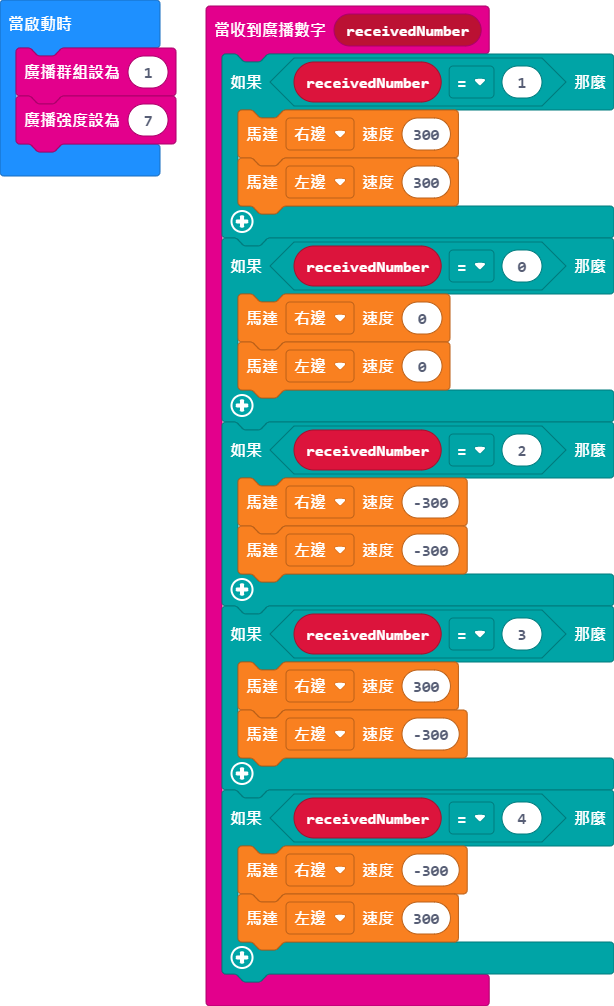
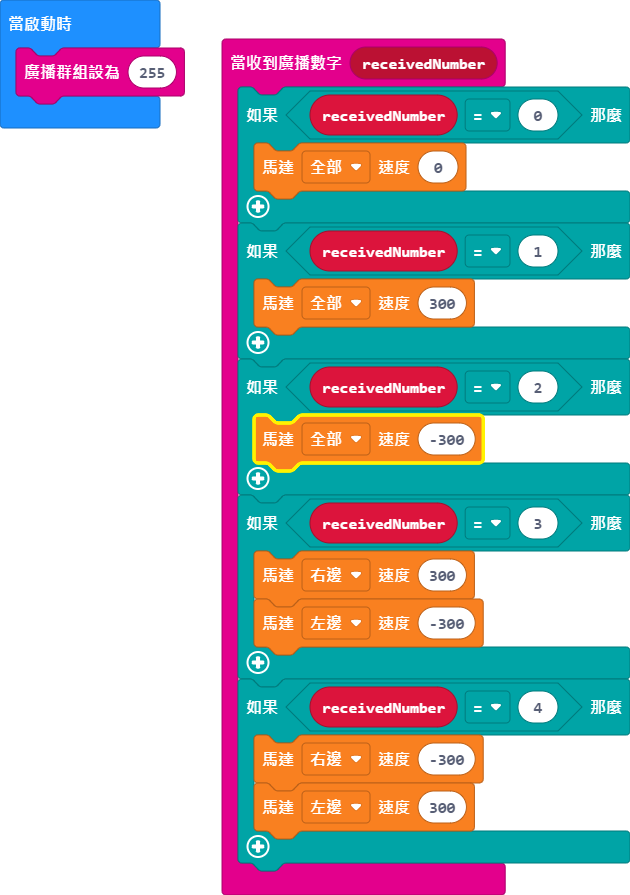
更新 main.blocks, main.ts

diff --git a/main.ts b/main.ts
@@ -1,15 +1,12 @@
 radio.onReceivedNumber(function (receivedNumber) {
-    if (receivedNumber == 1) {
-        BitRacer.motorRun(BitRacer.Motors.M_R, 300)
-        BitRacer.motorRun(BitRacer.Motors.M_L, 300)
-    }
     if (receivedNumber == 0) {
-        BitRacer.motorRun(BitRacer.Motors.M_R, 0)
-        BitRacer.motorRun(BitRacer.Motors.M_L, 0)
+        BitRacer.motorRun(BitRacer.Motors.All, 0)
+    }
+    if (receivedNumber == 1) {
+        BitRacer.motorRun(BitRacer.Motors.All, 300)
     }
     if (receivedNumber == 2) {
-        BitRacer.motorRun(BitRacer.Motors.M_R, -300)
-        BitRacer.motorRun(BitRacer.Motors.M_L, -300)
+        BitRacer.motorRun(BitRacer.Motors.All, -300)
     }
     if (receivedNumber == 3) {
         BitRacer.motorRun(BitRacer.Motors.M_R, 300)
@@ -20,5 +17,4 @@ radio.onReceivedNumber(function (receivedNumber) {
         BitRacer.motorRun(BitRacer.Motors.M_L, 300)
     }
 })
-radio.setGroup(1)
-radio.setTransmitPower(7)
+radio.setGroup(255)
